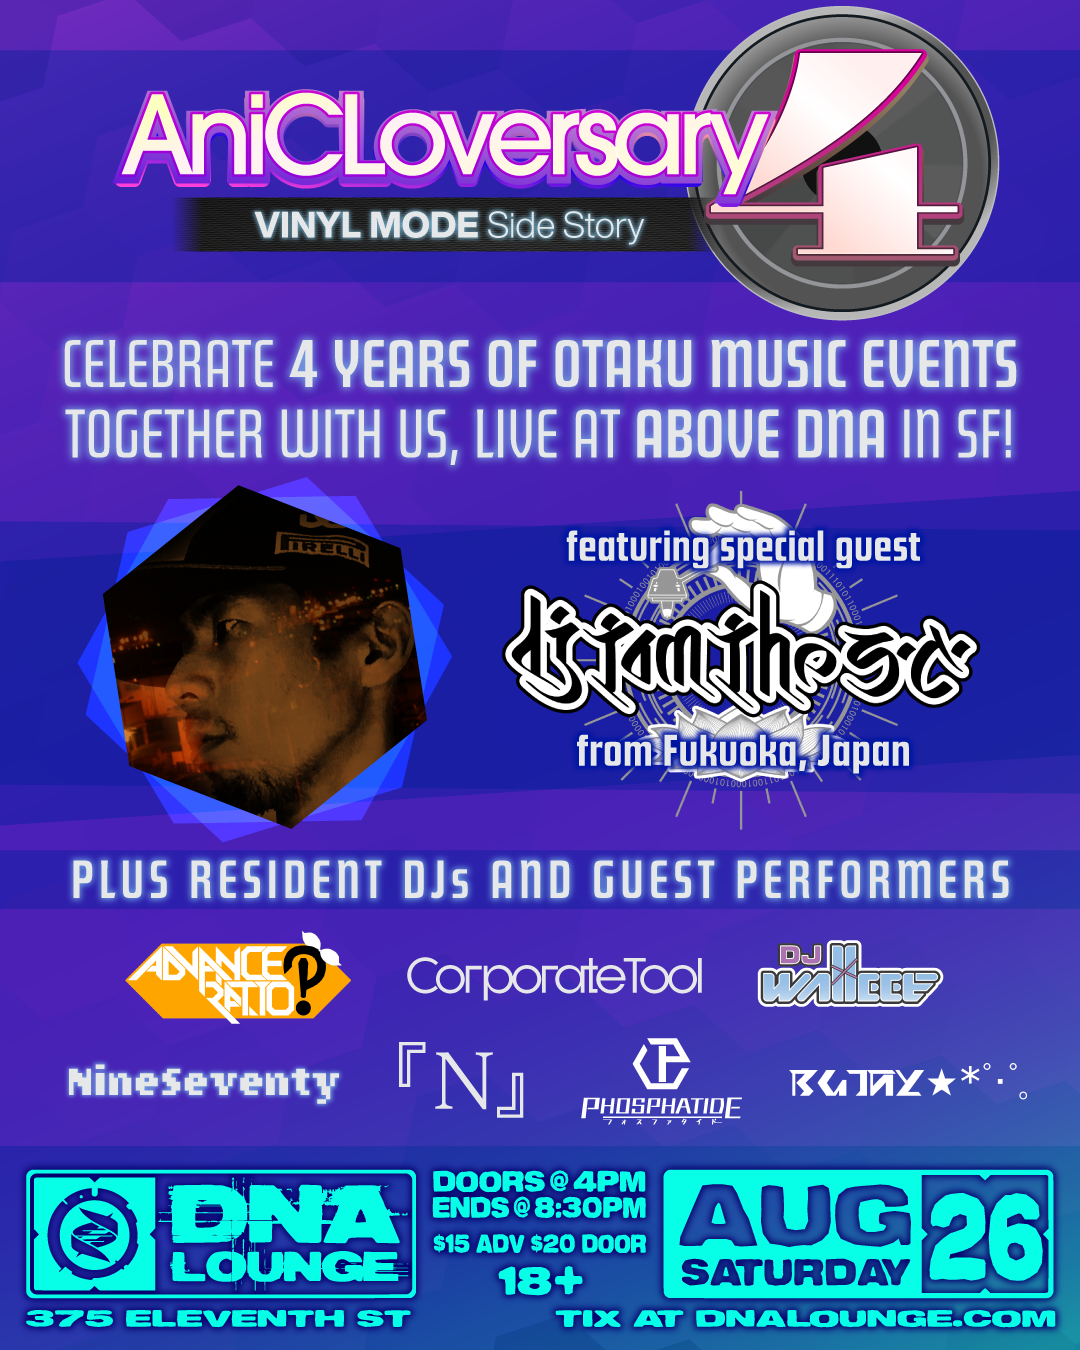
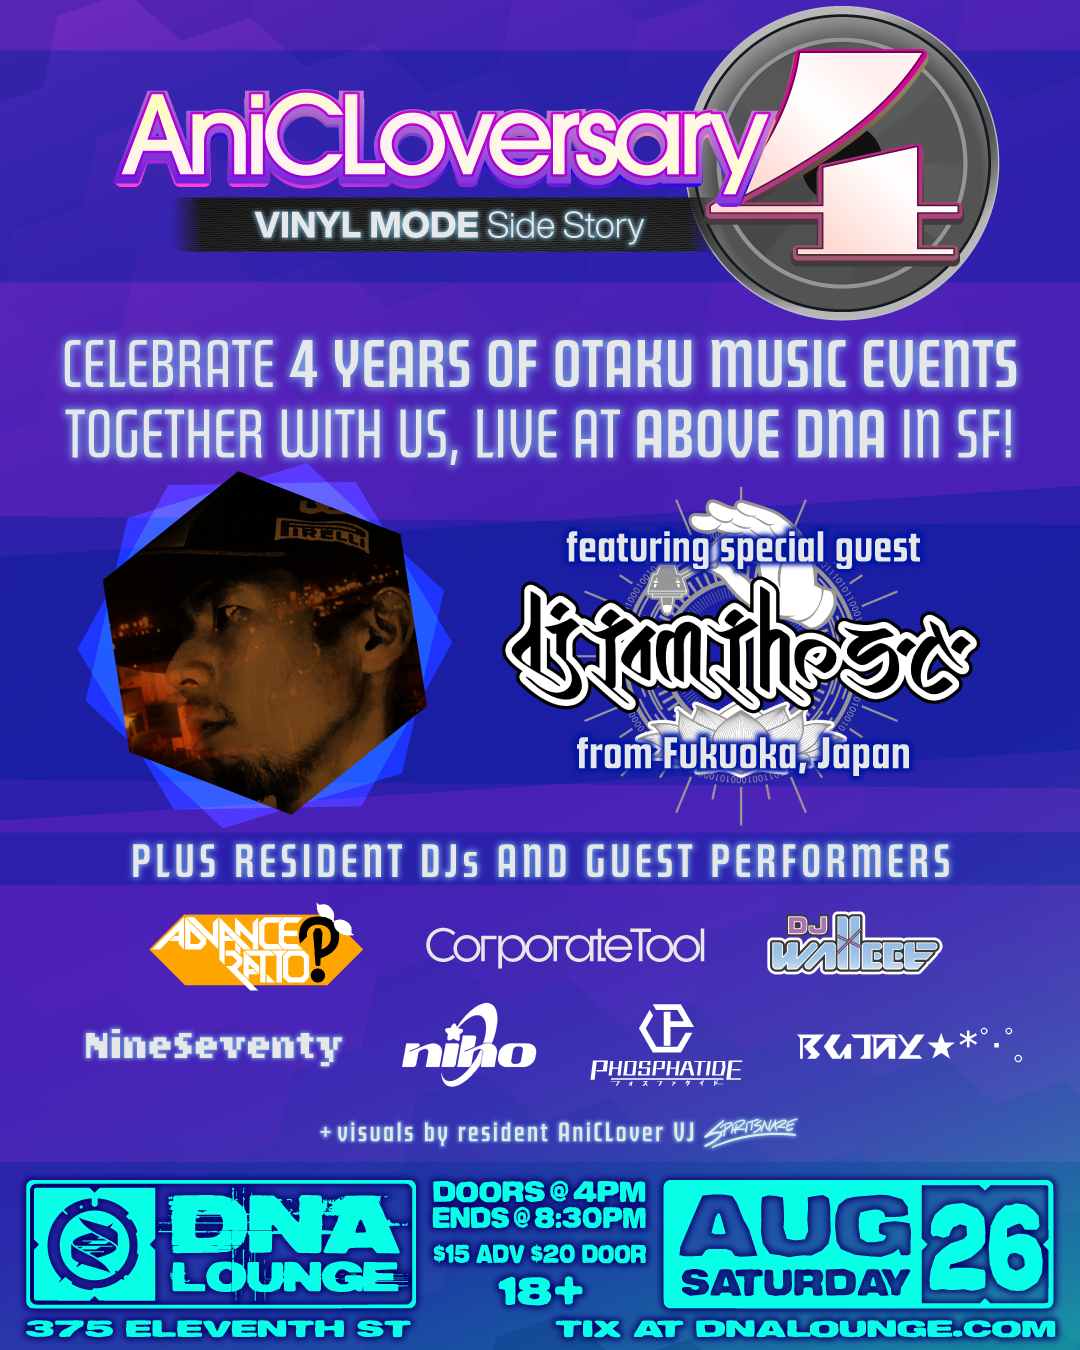
Final week messaging

Changed region(s): [[0.0, 0.3422, 1.0, 0.9956]]

diff --git a/index.html b/index.html
@@ -235,9 +235,12 @@
                     </form>
                     <!-- <a href="https://aniclover.com/direct" class="get-tickets">BUY TICKETS NOW</a> -->
                 </p>
+                <p class="display-6">
+                    FINAL WEEK! Show starts on Saturday, August 26 at 4PM PT in the DNA Lounge.
+                </p>
                 <p class="row col-xs-12 col-lg-9 mx-auto">
                     <a href="https://aniclover.com/direct">
-                        <img class="img-fluid" src="./assets/20230719 -AniCLoversary 4 - Digital Flyer.png" alt="AniCLoversary 4 on Auguest 26 at DNA Lounge in San Francisco">
+                        <img class="img-fluid" src="./assets/20230719 -AniCLoversary 4 - Digital Flyer.png" alt="AniCLoversary IV: Vinyl Mode Side Story on August 26 at DNA Lounge in San Francisco">
                     </a>
                 </p>
                 <p>
@@ -266,6 +269,7 @@
                     <iframe src="https://www.youtube.com/embed/4ofCcYA8W90" title="YouTube video player" frameborder="0" allow="accelerometer; autoplay; clipboard-write; encrypted-media; gyroscope; picture-in-picture; web-share" allowfullscreen></iframe>
                 </div>
                 <p>
+                    AniCLoversary 4: Vinyl Mode Side Story<br>
                     DNA Lounge<br>
                     Saturday, Aug 26 | Doors 4:00PM<br>
                     18+ only | Cosplay welcome (no large props or weapons)<br>
